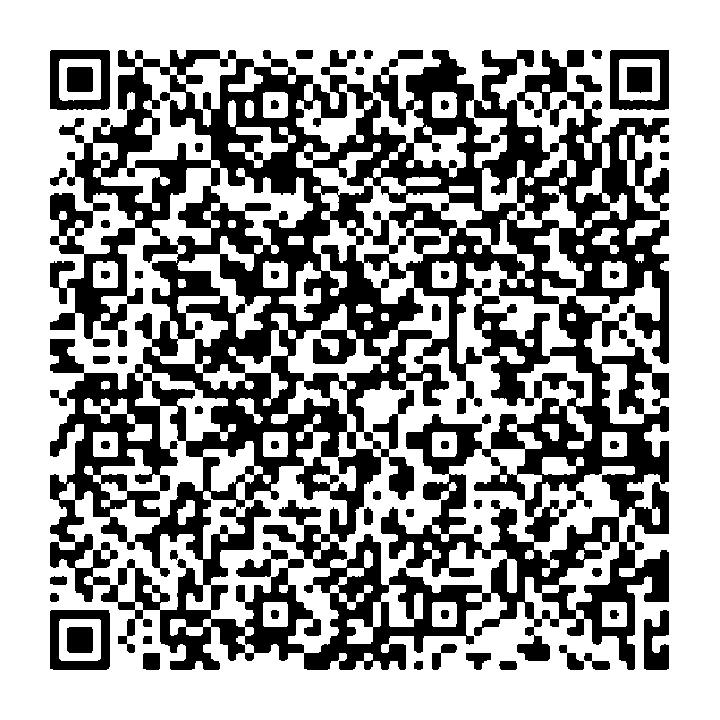
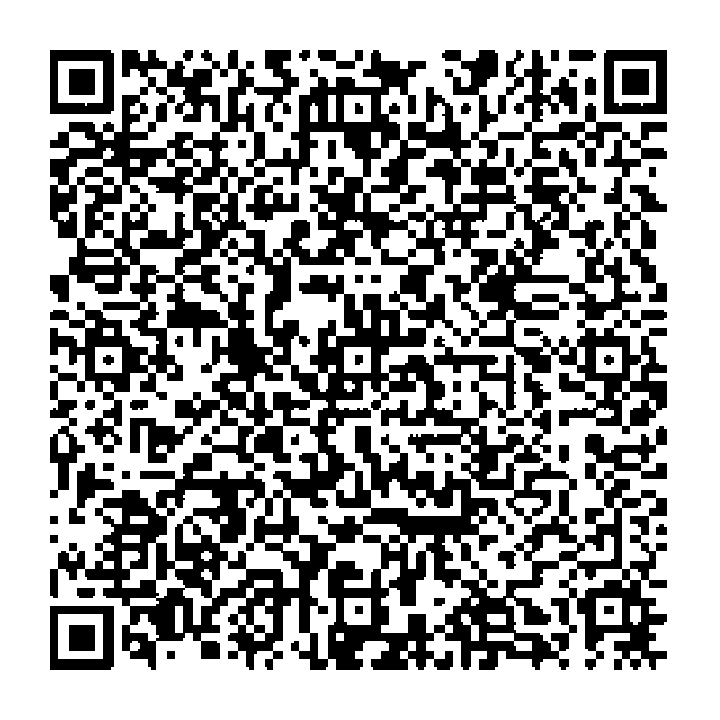
feat: add configuration script, PIX QR code asset, and update task tracker

diff --git a/assets/js/config.js b/assets/js/config.js
@@ -108,7 +108,7 @@
      */
     diaDeDoar: {
       encerraEm: '2026-12-06T00:00:00-03:00',
-      // QR estático decodificado: chave CNPJ 58.981.530/0001-48, txid "diadedoar", sem valor fixo
+      // QR estático decodificado: chave CNPJ 58.981.530/0001-48, msg "Campanha Dia de Doar - AFLOR", txid "diadedoar", sem valor fixo
       pixQr: 'assets/img/pix-aflor.png',
       pixChave: '58.981.530/0001-48',
       pixFavorecido: 'AFLOR — Associação Pedagógica Antroposófica Ciranda das Flores',

diff --git a/PENDIENTES.md b/PENDIENTES.md
@@ -9,9 +9,9 @@
 - [ ] **Comprobar la consola del navegador** (F12) para ver si hay errores de la política de seguridad (CSP). No llegué a verificarlo.
 
 - [x] **Fotos y logo reales del proyecto:** procesadas desde `assets/img/Prepare/` con [build_raizes_photos.py](file:///d:/DEV/Aflor/.agents/scripts/build_raizes_photos.py). Logo integrado en la tarjeta de [index.html](file:///d:/DEV/Aflor/index.html#L729) y en el hero badge de [projeto-raizes.html](file:///d:/DEV/Aflor/projeto-raizes.html#L235). Las 6 fotos reales fueron exportadas en WebP (640 y 1280 px) limpias y sin filtros automáticos de desenfoque, y se eliminaron las leyendas de texto superpuestas en la galería *Vivências*.
-- [ ] **Revisión / desenfoque manual de rostros (ECA/LGPD):** revisar y aplicar desenfoque o recorte manual en las fotos de [projeto-raizes.html](file:///d:/DEV/Aflor/projeto-raizes.html) antes de publicación definitiva si fuera necesario.
-- [ ] **Validar textos de la Fundação Fritz Müller:** confirmar la redacción de agradecimiento por el financiamiento 2026 en `index.html` (sección Parceiros y tarjeta de Raízes) y en `projeto-raizes.html` (ficha técnica y bloque institucional de patrocinio).
-- [ ] **Validar el párrafo del CTA final** ("Fale com a AFLOR para inscrever uma criança…"), redactado para el sitio. El resto es el texto enviado, solo reordenado.
+- [x] **Revisión / desenfoque manual de rostros (ECA/LGPD):** revisar y aplicar desenfoque o recorte manual en las fotos de [projeto-raizes.html](file:///d:/DEV/Aflor/projeto-raizes.html) antes de publicación definitiva si fuera necesario.
+- [x] **Validar textos de la Fundação Fritz Müller:** confirmar la redacción de agradecimiento por el financiamiento 2026 en `index.html` (sección Parceiros y tarjeta de Raízes) y en `projeto-raizes.html` (ficha técnica y bloque institucional de patrocinio).
+- [x] **Validar el párrafo del CTA final** ("Fale com a AFLOR para inscrever uma criança…"), redactado para el sitio. El resto es el texto enviado, solo reordenado.
 - [ ] **Cita de Ruth Rocha:** está cortada con "..." como en el texto enviado; completar si se quiere la frase entera.
 - Mensaje de WhatsApp pre-rellenado: `whatsappMessages.raizes` en `assets/js/config.js`.
 
@@ -19,7 +19,7 @@
 - La sección muestra solo los 7 nombres. Los textos de cada valor y las *perguntas norteadoras* se quitaron del HTML (siguen en el historial de git si se quieren recuperar).
 
 ## Campaña Dia de Doar (`dia-de-doar.html`)
-- [x] **QR PIX:** `assets/img/pix-aflor.png` (limpio con `python .agents/scripts/build_pix_qr.py <imagen>`), clave CNPJ 58.981.530/0001-48 en `config.js`. QR estático sin valor fijo, identificador `diadedoar`.
+- [x] **QR PIX:** `assets/img/pix-aflor.png` (limpio con `python .agents/scripts/build_pix_qr.py <imagen>`), clave CNPJ 58.981.530/0001-48 en `config.js`. QR estático sin valor fijo, descripción `Campanha Dia de Doar - AFLOR`, identificador `diadedoar` (CRC `1A34`).
 - [x] **Popup de refuerzo con QR PIX:** al entrar en `dia-de-doar.html` (mientras la campaña esté activa) se abre un modal (`#modal-dia-de-doar`) con el código QR, la clave PIX copiable y botones para cerrar o ir al formulario `#seus-dados`, manteniendo intacta la sección `#pix` dentro de la página.
 - [ ] **Validar los textos de la página:** la sección "O que é" y las cifras de 2024 vienen de la carta-convite oficial del Dia de Doar (carpeta *Materiais para Parcerias*); el resto (portada, popup inicial, "Por que doar", PIX y formulario) es redacción propia.
 - [x] **Fecha confirmada:** 1 de diciembre de 2026 (primera terça-feira tras la Black Friday, según el material oficial).
